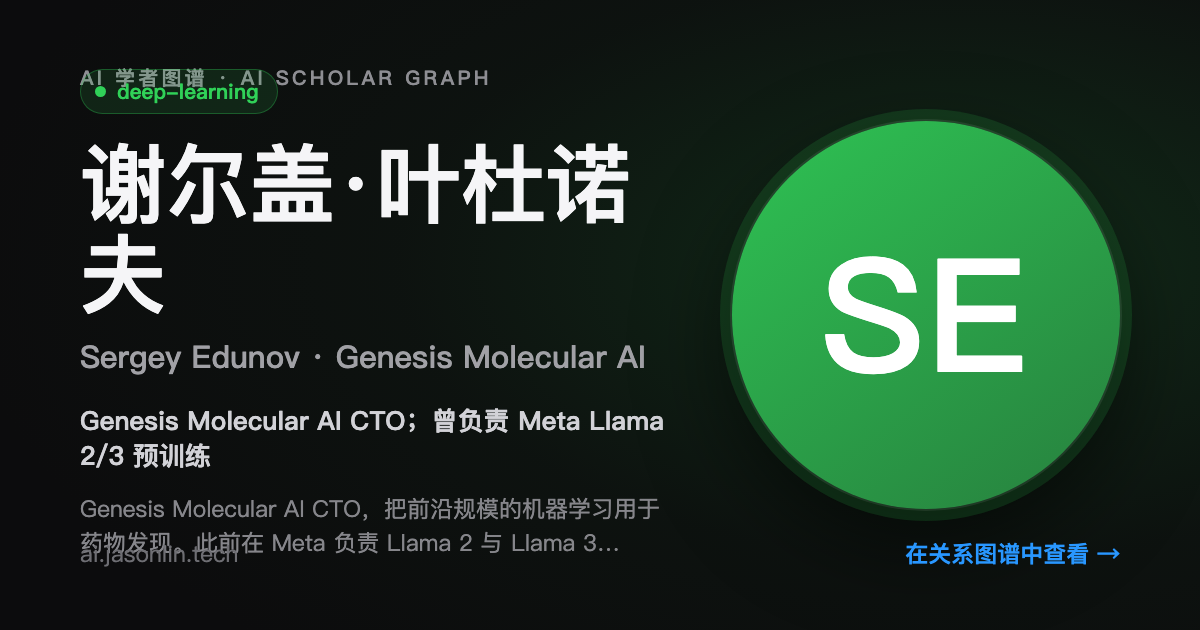
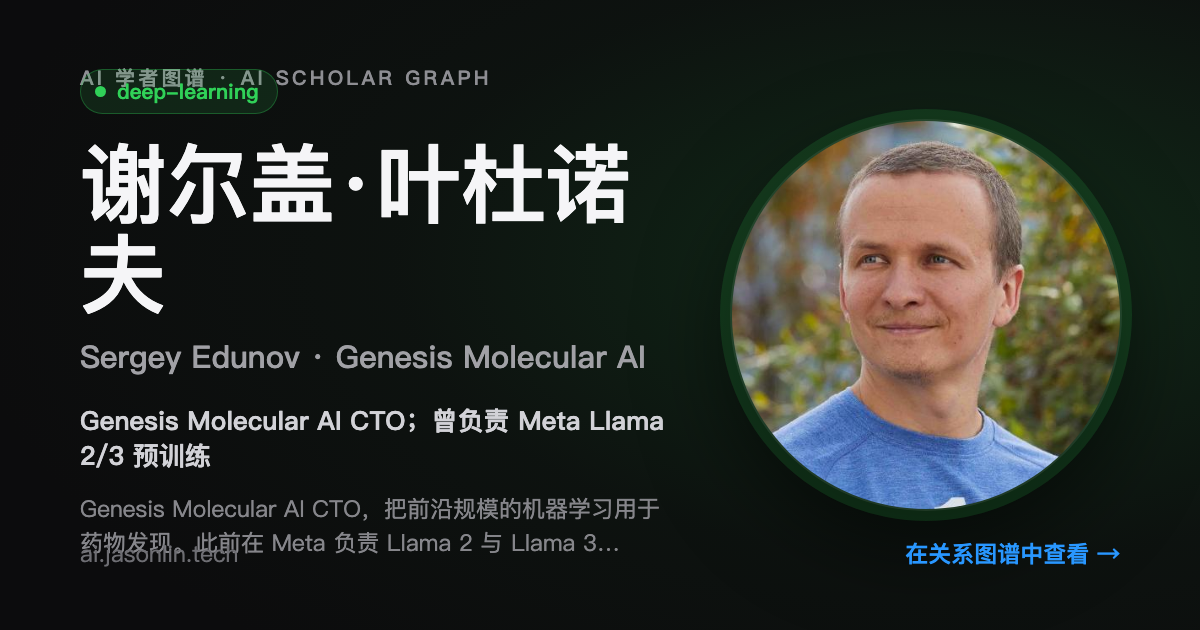
feat: 为新增播客人物补 7 张真实头像
naval/pincus(Wikipedia)、hafner/robertlange/edunov/logankilpatrick/ethanhe(GitHub,name 校验)
其余小众研究者用字段色 monogram 兜底;LOCAL_PHOTOS 按磁盘重建(94 张),重生成对应 /p 页 + OG 卡

Changed region(s): [[0.5858, 0.181, 0.9558, 0.8143]]

diff --git a/index.html b/index.html
@@ -2491,7 +2491,7 @@ function applyLanguage(lang) {
 }
 
 // 本地头像(assets/people/<id>.jpg,部分源自 AI 播客站,可靠优先)
-const LOCAL_PHOTOS = new Set(["abbeel","altman","awang","bcherny","bengio","bubeck","chendanqi","damodei","dayaguo","dean","delangue","esser","feifei","finn","gomez","goodfellow","gregbrockman","gregyang","hassabis","hausman","hendrycks","hinton","hochreiter","huangminlie","jackph","janleike","jensen","jhoward","jiangdaxin","jietang","jumper","justinjohnson","kaifulee","kaiminghe","kaiser","karpathy","kolter","lambert","lecun","legg","levine","liang","liangwenfeng","lilianweng","lindahua","linjunyang","liuzhiyuan","luqi","malik","manning","matengyu","mensch","miramurati","musk","nanda","ng","noambrown","olah","pachocki","pathak","pushmeetkohli","radford","robinli","rombach","schmidhuber","schulman","sholto","socher","steinberger","suleyman","sutskever","sutton","tangxiaoou","thomaswolf","tridao","truell","tulloch","wangxiaochuan","wangxiaogang","wei","yangzhilin","yaoqizhi","yaoshunyu","yudong","zhangzhengyou","zhoujingren","zhusongchun"]);
+const LOCAL_PHOTOS = new Set(["abbeel","altman","awang","bcherny","bengio","bubeck","chendanqi","damodei","dayaguo","dean","delangue","edunov","esser","ethanhe","feifei","finn","gomez","goodfellow","gregbrockman","gregyang","hafner","hassabis","hausman","hendrycks","hinton","hochreiter","huangminlie","jackph","janleike","jensen","jhoward","jiangdaxin","jietang","jumper","justinjohnson","kaifulee","kaiminghe","kaiser","karpathy","kolter","lambert","lecun","legg","levine","liang","liangwenfeng","lilianweng","lindahua","linjunyang","liuzhiyuan","logankilpatrick","luqi","malik","manning","matengyu","mensch","miramurati","musk","nanda","naval","ng","noambrown","olah","pachocki","pathak","pincus","pushmeetkohli","radford","robertlange","robinli","rombach","schmidhuber","schulman","sholto","socher","steinberger","suleyman","sutskever","sutton","tangxiaoou","thomaswolf","tridao","truell","tulloch","wangxiaochuan","wangxiaogang","wei","yangzhilin","yaoqizhi","yaoshunyu","yudong","zhangzhengyou","zhoujingren","zhusongchun"]);
 
 // Wikipedia article title mapping for avatar fetching
 const wikiTitles = {

diff --git a/p/logankilpatrick.html b/p/logankilpatrick.html
@@ -44,7 +44,7 @@ li a,.bio a{color:var(--blue);text-decoration:none}
 <button class="langtoggle" id="langtoggle" type="button" aria-label="切换语言 / Toggle language"><span class="i18n-zh">EN</span><span class="i18n-en">中</span></button>
 <div class="wrap">
 <a class="eyebrow" href="/"><span class="i18n-zh">AI 学者图谱</span><span class="i18n-en">AI Scholar Graph</span> ↗</a>
-<div class="avatar mono" style="background:linear-gradient(145deg,rgba(48,209,88,.92),rgba(48,209,88,.5));box-shadow:0 0 0 1px rgba(255,255,255,.08),0 0 0 7px rgba(48,209,88,.14)">LK</div>
+<img class="avatar" src="/assets/people/logankilpatrick.jpg" alt="Logan Kilpatrick" width="108" height="108" loading="eager">
 <h1><span class="i18n-zh">洛根·基尔帕特里克 Logan Kilpatrick</span><span class="i18n-en">Logan Kilpatrick</span></h1>
 <p class="org">Google AI Studio &amp; Gemini API</p>
 <p class="role"><span class="i18n-zh">Google AI Studio 与 Gemini API 负责人；前 OpenAI</span><span class="i18n-en">Lead, Google AI Studio &amp; Gemini API; ex-OpenAI</span></p>

diff --git a/p/edunov.html b/p/edunov.html
@@ -44,7 +44,7 @@ li a,.bio a{color:var(--blue);text-decoration:none}
 <button class="langtoggle" id="langtoggle" type="button" aria-label="切换语言 / Toggle language"><span class="i18n-zh">EN</span><span class="i18n-en">中</span></button>
 <div class="wrap">
 <a class="eyebrow" href="/"><span class="i18n-zh">AI 学者图谱</span><span class="i18n-en">AI Scholar Graph</span> ↗</a>
-<div class="avatar mono" style="background:linear-gradient(145deg,rgba(48,209,88,.92),rgba(48,209,88,.5));box-shadow:0 0 0 1px rgba(255,255,255,.08),0 0 0 7px rgba(48,209,88,.14)">SE</div>
+<img class="avatar" src="/assets/people/edunov.jpg" alt="Sergey Edunov" width="108" height="108" loading="eager">
 <h1><span class="i18n-zh">谢尔盖·叶杜诺夫 Sergey Edunov</span><span class="i18n-en">Sergey Edunov</span></h1>
 <p class="org">Genesis Molecular AI</p>
 <p class="role"><span class="i18n-zh">Genesis Molecular AI CTO；曾负责 Meta Llama 2/3 预训练</span><span class="i18n-en">CTO, Genesis Molecular AI; led Llama 2/3 pretraining at Meta</span></p>

diff --git a/p/naval.html b/p/naval.html
@@ -44,7 +44,7 @@ li a,.bio a{color:var(--blue);text-decoration:none}
 <button class="langtoggle" id="langtoggle" type="button" aria-label="切换语言 / Toggle language"><span class="i18n-zh">EN</span><span class="i18n-en">中</span></button>
 <div class="wrap">
 <a class="eyebrow" href="/"><span class="i18n-zh">AI 学者图谱</span><span class="i18n-en">AI Scholar Graph</span> ↗</a>
-<div class="avatar mono" style="background:linear-gradient(145deg,rgba(48,209,88,.92),rgba(48,209,88,.5));box-shadow:0 0 0 1px rgba(255,255,255,.08),0 0 0 7px rgba(48,209,88,.14)">NR</div>
+<img class="avatar" src="/assets/people/naval.jpg" alt="Naval Ravikant" width="108" height="108" loading="eager">
 <h1><span class="i18n-zh">纳瓦尔·拉维坎特 Naval Ravikant</span><span class="i18n-en">Naval Ravikant</span></h1>
 <p class="org">AngelList</p>
 <p class="role"><span class="i18n-zh">AngelList 联合创始人；天使投资人与思想者</span><span class="i18n-en">Co-founder, AngelList; angel investor &amp; philosopher</span></p>

diff --git a/p/ethanhe.html b/p/ethanhe.html
@@ -44,7 +44,7 @@ li a,.bio a{color:var(--blue);text-decoration:none}
 <button class="langtoggle" id="langtoggle" type="button" aria-label="切换语言 / Toggle language"><span class="i18n-zh">EN</span><span class="i18n-en">中</span></button>
 <div class="wrap">
 <a class="eyebrow" href="/"><span class="i18n-zh">AI 学者图谱</span><span class="i18n-en">AI Scholar Graph</span> ↗</a>
-<div class="avatar mono" style="background:linear-gradient(145deg,rgba(191,90,242,.92),rgba(191,90,242,.5));box-shadow:0 0 0 1px rgba(255,255,255,.08),0 0 0 7px rgba(191,90,242,.14)">EH</div>
+<img class="avatar" src="/assets/people/ethanhe.jpg" alt="Ethan He" width="108" height="108" loading="eager">
 <h1><span class="i18n-zh">伊森·何 Ethan He</span><span class="i18n-en">Ethan He</span></h1>
 <p class="org">xAI</p>
 <p class="role"><span class="i18n-zh">xAI 技术成员（Grok Imagine）；前 NVIDIA（Cosmos 世界模型）</span><span class="i18n-en">Member of Technical Staff, xAI (Grok Imagine); ex-NVIDIA (Cosmos)</span></p>

diff --git a/p/hafner.html b/p/hafner.html
@@ -44,7 +44,7 @@ li a,.bio a{color:var(--blue);text-decoration:none}
 <button class="langtoggle" id="langtoggle" type="button" aria-label="切换语言 / Toggle language"><span class="i18n-zh">EN</span><span class="i18n-en">中</span></button>
 <div class="wrap">
 <a class="eyebrow" href="/"><span class="i18n-zh">AI 学者图谱</span><span class="i18n-en">AI Scholar Graph</span> ↗</a>
-<div class="avatar mono" style="background:linear-gradient(145deg,rgba(255,159,10,.92),rgba(255,159,10,.5));box-shadow:0 0 0 1px rgba(255,255,255,.08),0 0 0 7px rgba(255,159,10,.14)">DH</div>
+<img class="avatar" src="/assets/people/hafner.jpg" alt="Danijar Hafner" width="108" height="108" loading="eager">
 <h1><span class="i18n-zh">达尼亚尔·哈夫纳 Danijar Hafner</span><span class="i18n-en">Danijar Hafner</span></h1>
 <p class="org">Google DeepMind</p>
 <p class="role"><span class="i18n-zh">Google DeepMind 研究科学家</span><span class="i18n-en">Research Scientist, Google DeepMind</span></p>

diff --git a/p/robertlange.html b/p/robertlange.html
@@ -44,7 +44,7 @@ li a,.bio a{color:var(--blue);text-decoration:none}
 <button class="langtoggle" id="langtoggle" type="button" aria-label="切换语言 / Toggle language"><span class="i18n-zh">EN</span><span class="i18n-en">中</span></button>
 <div class="wrap">
 <a class="eyebrow" href="/"><span class="i18n-zh">AI 学者图谱</span><span class="i18n-en">AI Scholar Graph</span> ↗</a>
-<div class="avatar mono" style="background:linear-gradient(145deg,rgba(48,209,88,.92),rgba(48,209,88,.5));box-shadow:0 0 0 1px rgba(255,255,255,.08),0 0 0 7px rgba(48,209,88,.14)">RL</div>
+<img class="avatar" src="/assets/people/robertlange.jpg" alt="Robert Lange" width="108" height="108" loading="eager">
 <h1><span class="i18n-zh">罗伯特·兰格 Robert Lange</span><span class="i18n-en">Robert Lange</span></h1>
 <p class="org">Sakana AI</p>
 <p class="role"><span class="i18n-zh">Sakana AI 创始研究员</span><span class="i18n-en">Founding Researcher, Sakana AI</span></p>

diff --git a/p/pincus.html b/p/pincus.html
@@ -44,7 +44,7 @@ li a,.bio a{color:var(--blue);text-decoration:none}
 <button class="langtoggle" id="langtoggle" type="button" aria-label="切换语言 / Toggle language"><span class="i18n-zh">EN</span><span class="i18n-en">中</span></button>
 <div class="wrap">
 <a class="eyebrow" href="/"><span class="i18n-zh">AI 学者图谱</span><span class="i18n-en">AI Scholar Graph</span> ↗</a>
-<div class="avatar mono" style="background:linear-gradient(145deg,rgba(48,209,88,.92),rgba(48,209,88,.5));box-shadow:0 0 0 1px rgba(255,255,255,.08),0 0 0 7px rgba(48,209,88,.14)">MP</div>
+<img class="avatar" src="/assets/people/pincus.jpg" alt="Mark Pincus" width="108" height="108" loading="eager">
 <h1><span class="i18n-zh">马克·平卡斯 Mark Pincus</span><span class="i18n-en">Mark Pincus</span></h1>
 <p class="org">Zynga</p>
 <p class="role"><span class="i18n-zh">Zynga 创始人</span><span class="i18n-en">Founder, Zynga</span></p>
